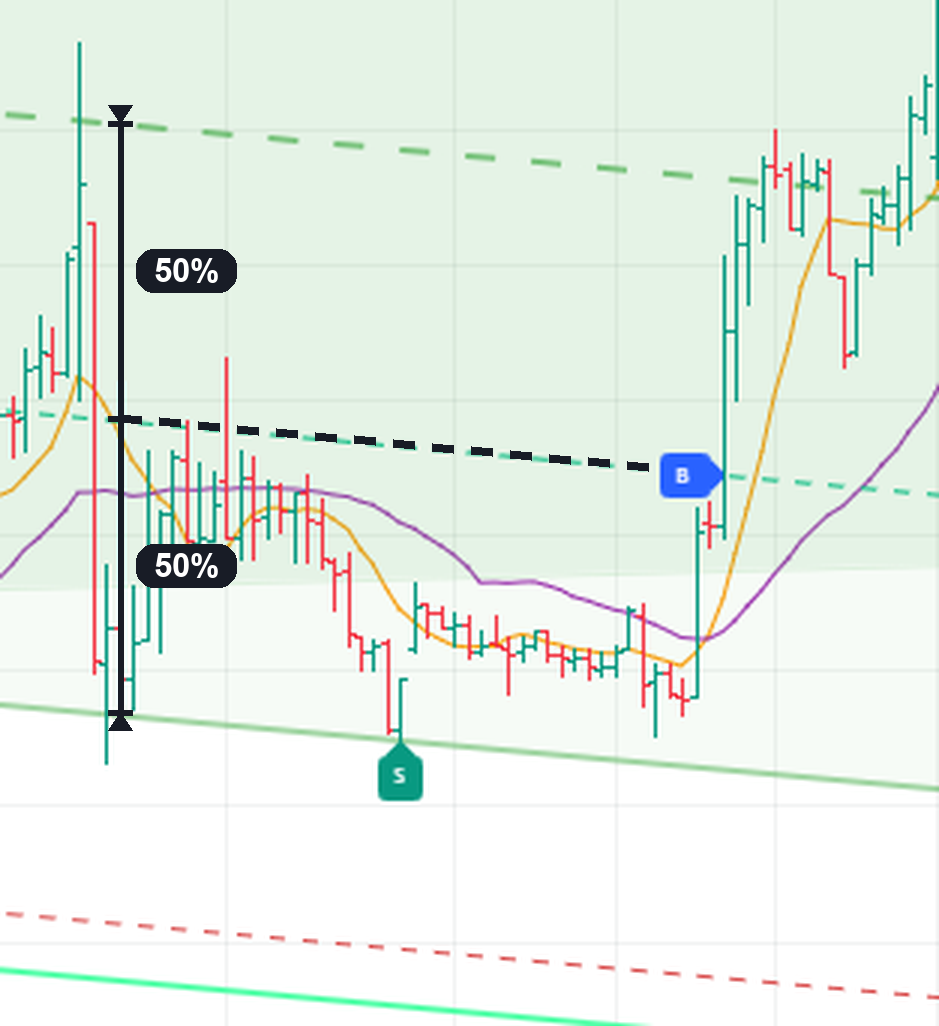
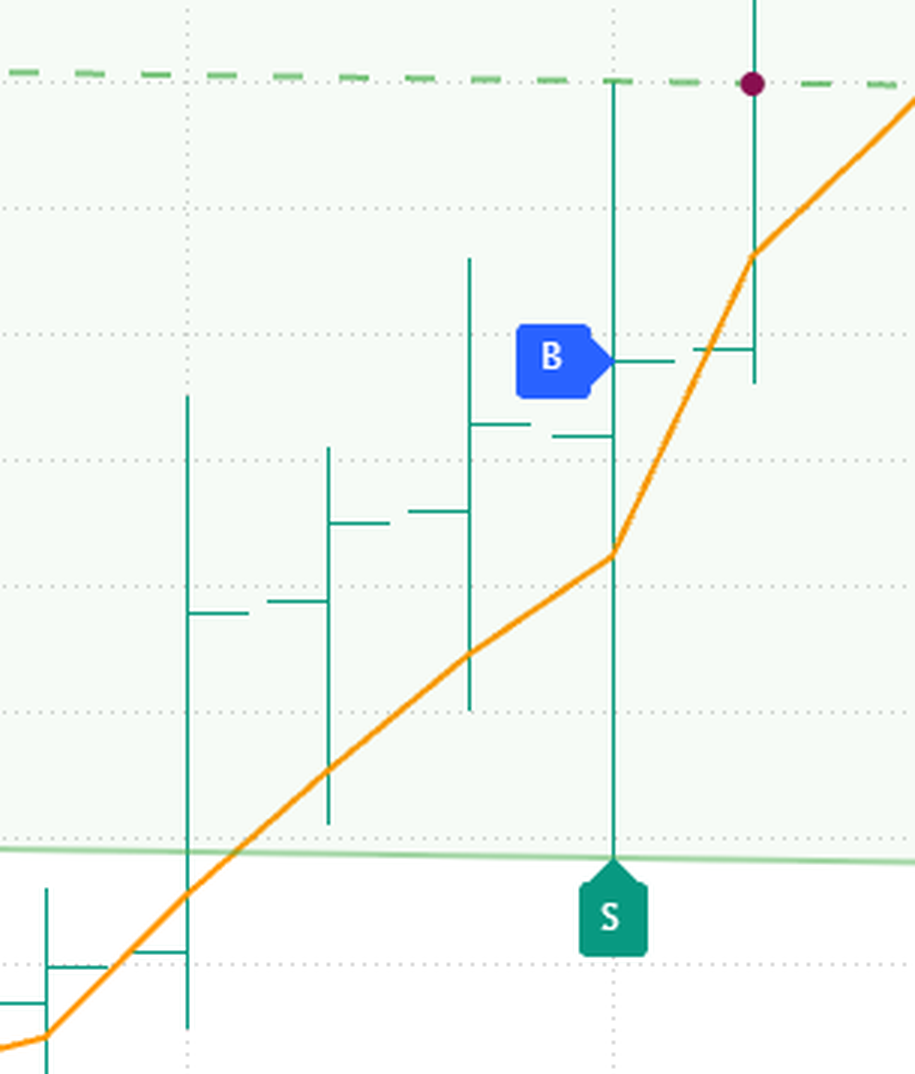
Guides: buy and sell signals now describe the three-bar confirmation
The Navigator's next release replaces the 50%-of-width entry for B, S, EB
and ES with a three-bar confirmation after a line hit, drops the MA 30 and
turns the MA 9 into an adjustable MA 5. The site now says so:

- read-the-chart: MA bullet and overview caption; new "How a buy or sell
  signal forms" section (steps, the two ways a signal can form, extended
  signals and the 75% rule, sells mirror, a "use your own judgement"
  callout for narrow channels); "The entry and SL lines" becomes "The SL
  lines" with the entry rows gone.
- label examples, zone cards, settings sections, core-skills (fallback
  paragraph, MA 5 TP), how-it-works captions and the Telegram signal
  groups rewritten to match.
- new screenshots: numbered buy and extended-buy step shots, clean B/EB/
  S/ES cards, the missed-opportunity shot, MA 5 overview; ma9-tp renamed
  ma5-tp. The four settings-window and SL-line shots are removed until
  the trimmed window is captured; the zone cards and settings component
  render a placeholder frame meanwhile.
- spec: docs/superpowers/specs/2026-10-21-signal-logic-guide-update-design.md

diff --git a/docs/superpowers/specs/2026-10-21-signal-logic-guide-update-design.md b/docs/superpowers/specs/2026-10-21-signal-logic-guide-update-design.md
@@ -1,0 +1,103 @@
+# Signal logic guide update — design
+
+**Date:** 2026-10-21, rules revised 2026-10-28
+**Status:** approved wording, not yet implemented. Nothing deploys until Joseph publishes the new Navigator to subscribers and deploys the site himself.
+
+## Why
+
+The Navigator's buy and sell signals (B, S, EB, ES) no longer fire at the 50% entry line. They now fire on the close of the bar that completes a 3-bar confirmation after a line hit. The site explains the old rule in six places. The MA set also changes: MA 30 is removed and the orange MA 9 becomes an MA 5 with an adjustable length.
+
+Verified against `RHO Navigator [Dev]` v531 (`USER;647f9023a57140d1be2996ca1a433790`) on 2026-10-21. The Dev build carries extra test settings and two things that will change before publishing (SL distance, B-turns-EB quirk), so the site follows Joseph's stated rules below, not the Dev code, where they differ.
+
+## The rules (subscriber level)
+
+Keep it at this depth. No setting names, no lookback values, no "arm" or "lock" jargon.
+
+**Channel buy (B)**
+
+1. Price hits support.
+2. Three bars in a row close above the MA 5. Bars 2 and 3 also close above the support line (bar 1 may close below it, as long as it closed above the MA 5).
+3. One of those bars closes above the bar before it: bar 2 closes above bar 1's high, or bar 3 closes above bar 2's high. A real push, not a drift.
+4. On bar 3, the MA 5 has a positive inclination (sloping up).
+5. B prints on bar 3 at its close. That close is the entry.
+
+So a buy can form two ways: bar 1 closes below support but above the MA 5, then bars 2 and 3 close above both; or all three bars close above both the line and the MA 5. The first way gets you in one bar earlier.
+
+The setup is dropped if 30 bars pass after the hit, or if price closes above the middle line first. One signal per hit.
+
+**Extended buy (EB)**
+
+Same steps, with three differences: the hit is the second touch of the extended support line, bars 2 and 3 close above the extended support line, and bar 3 must close no higher than 75% of the way from extended support to support. The first target is the support line, so at least 25% of that distance has to be left for profit; a close past the 75% mark leaves too little, and no EB prints.
+
+**Sells (S, ES)** mirror everything downward: resistance hit, three closes below the MA 5, bars 2 and 3 also below resistance (or extended resistance), one bar closing below the previous bar's low, MA 5 sloping down on bar 3, S or ES at bar 3's close. Two ways again: bar 1 closes above resistance but below the MA 5, then bars 2 and 3 close below both; or all three close below both. Extended sell: bar 3 closes no lower than 75% of the way from extended resistance to resistance.
+
+**B vs EB.** B always follows a support hit; EB always follows an extended-support hit. (Dev currently relabels a support-armed setup as EB when a bar closes below support. Joseph will fix this before publishing; the site does not mention it.)
+
+**When your own judgement beats the signal (new, 2026-10-28).** The 3-bar rule is there so the entry is confirmed, but confirmation costs bars. When the bars are big or the channel is narrow, price can reach the other side of the channel within two bars, before bar 3 closes, and the opportunity is gone. The guide says so plainly: the label is the safe default; a trader who reads the chart may enter earlier on a line hit when the channel is narrow relative to the bar size, with the same SL. One screenshot (#14) shows the missed case.
+
+**Stop loss.** Unchanged: the SL line sits 1.5 bar heights beyond the line, and the Telegram message's SL is that same level.
+
+**Moving averages.** One MA now: the MA 5, orange, on by default, length adjustable in the settings. MA 30 is gone. The MA 9 take-profit rule becomes the MA 5 take-profit rule, same steps.
+
+**Chart Lines setting.** Only SL lines remain (main channel and extended channel). The entry lines are gone.
+
+## Pages and sections to change
+
+| # | File | Change |
+| :-- | :-- | :-- |
+| 1 | `web/src/content/guides/master/read-the-chart.mdx` | "What you see" MA bullet: one MA 5, adjustable, no MA 30. Overview caption. New section "How a buy or sell signal forms" after "See the labels on a chart": the 5 steps, the two ways a signal can form, one buy shot, one extended-buy shot (75% line), "sells mirror" paragraph, then a short "When to use your own judgement" callout with the narrow-channel shot (#14). "The entry and SL lines" becomes "The SL lines": callout, intro sentence, toggle caption. |
+| 2 | `web/src/components/guides/GuideLabelExamples.astro` | B, EB, S, ES card bodies rewritten to the 3-bar rule. Header comment. |
+| 3 | `web/src/components/guides/GuideZoneCards.astro` | Entry rows removed, SL rows kept. Header comment. Component name stays. |
+| 4 | `web/src/components/guides/GuideSettingsSections.astro` | Chart Lines text (SL lines only). Moving Averages text (MA 5, length). Section strips and card count wait for the trimmed subscriber settings window. |
+| 5 | `web/src/content/guides/master/core-skills.mdx` | "Our signal, the fallback" paragraph (line ~201), plus one sentence pointing back to the judgement callout (narrow channel, big bars). "MA 9 TP" heading, steps and caption become MA 5 (same image, renamed to `ma5-tp.png`). "Both entry types exit the same way" line. SL section link text. |
+| 6 | `web/src/pages/how-it-works.astro` | Buy and sell captions ("rebound about halfway" wording). SVG panel comments. Pill position in the mock can stay. |
+| 7 | `web/src/components/guides/GuideSignalGroups.astro` | "Fires at the buy zone" and "Fires at the extended buy zone" lead lines. |
+| 8 | `../Navigator Business Resources/Engineering/navigator-indicator-documentation.md` | Short dated section at the top: B/S engine replaced, pointer to this spec. Full rewrite only after the script publishes. |
+| 9 | `../MEMORY.md` (Navigator Business) | One entry: signal logic change, date, what the site says, pending screenshots. |
+
+Not touched: `reading-the-signals.mdx` (timeframe and group text still true), `docs/brand/references/how-it-works-redesign/BRIEF.md` (historical brief).
+
+## Screenshots Joseph supplies
+
+All under `web/public/`. Capture on the 1h chart with Pepperstone data, same style as the current shots.
+
+| # | Path | What to show |
+| :-- | :-- | :-- |
+| 1 | `learn/understanding/overview.png` | Whole chart with MA 5 only (no MA 30), both panels |
+| 2 | `learn/understanding/signal-buy-steps.png` (new) | S hit, the three bars above the MA 5, B label on bar 3. Mark the bar that closed above the previous high if possible |
+| 3 | `learn/understanding/signal-extended-buy-steps.png` (new) | Second ES hit, bars 2 and 3 above extended support, EB on bar 3, the 75% level between ES and S visible (bar 3 closes below it) |
+| 4 | `learn/labels/buy.png` | One clean B example (label card) |
+| 5 | `learn/labels/extended-buy.png` | One clean EB example |
+| 6 | `learn/labels/sell.png` | One clean S example |
+| 7 | `learn/labels/extended-sell.png` | One clean ES example |
+| 8 | `learn/understanding/zone-lines-normal.png` | Main channel SL lines only |
+| 9 | `learn/understanding/zone-lines-extended.png` | Extended channel SL lines only |
+| 10 | `learn/understanding/zone-toggles.png` | Chart Lines section of the trimmed settings window |
+| 11 | `learn/understanding/settings-dialog.png` | Full Inputs tab of the trimmed settings window |
+| 12 | `learn/lessons/signal-fallback.png` | B or S printing on the close in the core-skills context |
+| 13 | `learn/lessons/ma5-tp.png` | Rename of `ma9-tp.png`, same image |
+| 14 | `learn/understanding/signal-missed-narrow-channel.png` (new) | Narrow channel, big bars: a line hit where price reaches the other side within two bars, so no label or a late one. Raw candidate `discretion-narrow-channel.png` is 256 x 315, recapture at 2 to 3x |
+| 15 | `learn/understanding/signal-sell-early.png` (new, optional) | A sell where bar 1 closed above resistance but below the MA 5, bars 2 and 3 below both: the earlier-entry case |
+
+Optional: sell and extended-sell step shots. The text says "sells mirror", so these are not required. #15 is optional for the same reason.
+
+### Captures received so far (2026-10-21)
+
+Raw files in `../Navigator Business Resources/Guides/signal-logic-2026-10/raw/`. Nothing annotated or copied into `web/public/` yet (Joseph put all changes on hold until the script is tested, target next week).
+
+| Raw file | Size | Covers | Annotation to do before use |
+| :-- | :-- | :-- | :-- |
+| `overview-ma5.png` | 1001 × 657 | #1 overview | Same style as the current `overview.png`: boxed labels with yellow arrows for "Previous Channel", "Current Channel", "Trend Analysis Panel", "Channel Levels Panel", plus an orange "MA 5" tag on the orange line. No MA 30 tag. |
+| `buy-signal.png` | 287 × 269 | #2 buy steps, #4 label card B, #12 signal fallback | Mark the three bars as 1, 2, 3 (bar 3 carries the B). For the step shot, also mark the S hit. **Too small as captured**: the current label cards are about 900 px wide and the fallback target is 600 px+. Recapture the same spot at 2 to 3× (browser zoom 200% before snipping) and annotate that one. |
+| `sell-signal.png` | 274 × 283 | #6 label card S, #12 signal fallback (sell version) | Same 1, 2, 3 marking as the buy. Same resolution problem, same fix. |
+| `discretion-narrow-channel.png` (2026-10-28) | 256 × 315 | #14 missed opportunity | Narrow channel, big bars, S at the top then price at the bottom line two bars later. Too small, recapture at 2 to 3x with the labels readable. |
+| `buy-steps-v2.png` (2026-10-28) | 305 × 358 | #2 buy steps, #4 B card, #12 fallback | S hit at the bottom, three bars above the MA 5, B on bar 3. Content right. Still about a third of the card width, recapture at 3x. |
+| `extended-buy-steps.png` (2026-10-28) | 298 × 329 | #3 EB steps, #5 EB card | ES2 hit then EB. Content right but the support line above is out of frame, so the 75% level cannot be drawn. Recapture at 3x with support in frame. |
+| `sell-v2.png` (2026-10-28) | 363 × 359 | #6 S card, #12 fallback (sell) | R hit, three bars below the MA 5, S on bar 3. Content right, recapture at 3x. |
+| `extended-sell.png` (2026-10-28) | 398 × 344 | #7 ES card | ER2 hit then ES. Content right, resistance line below out of frame (fine for the card). Recapture at 3x. |
+
+Joseph's plan (2026-10-28): #4 reuses #2, #5 reuses #3, #12 reuses #2 or #6, #13 not needed, #8 to #11 come later (placeholders first), #15 later. Still needed at usable size: #2, #3, #6, #7, #14 (all captured under 400 px wide, cards are 800 to 970 px).
+
+## Approach
+
+Write all copy now against the current image paths. Joseph drops screenshots in as he gets them. Nothing commits to `master` or deploys until the script publishes; Joseph deploys himself.
